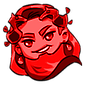
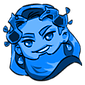
Implemented 'Sanguinary Savor'. Renamed Rupture and Splash.

diff --git a/HadesAncientsCode/Ares/RestSiteOptions/PayTributeRestSiteOption.cs b/HadesAncientsCode/Ares/RestSiteOptions/PayTributeRestSiteOption.cs
@@ -1,0 +1,93 @@
+using BaseLib.Common.Rewards;
+using HadesAncients.HadesAncientsCode.Ares.SpireFields;
+using HadesAncients.HadesAncientsCode.Shared.Abstracts;
+using HadesAncients.HadesAncientsCode.Shared.Enums;
+using HadesAncients.HadesAncientsCode.Shared.Utils;
+using MegaCrit.Sts2.Core.Commands;
+using MegaCrit.Sts2.Core.Entities.Players;
+using MegaCrit.Sts2.Core.GameActions.Multiplayer;
+using MegaCrit.Sts2.Core.Localization;
+using MegaCrit.Sts2.Core.Rewards;
+
+namespace HadesAncients.HadesAncientsCode.Ares.RestSiteOptions;
+
+public class PayTributeRestSiteOption(Player owner, PayTributeParams payTributeParams)
+    : HadesAncientsRestSiteOption(HadesAncient.Ares, owner)
+{
+    public override string OptionId => "PAY_TRIBUTE";
+
+    public override LocString Description
+    {
+        get
+        {
+            LocString description = new LocString("static_hover_tips", "HADESANCIENTS-PAY_TRIBUTE.description");
+            description.Add(PayTributeParams.MaxHpLossKey, payTributeParams.MaxHpLoss);
+            description.Add(PayTributeParams.RelicsToObtainKey, payTributeParams.RelicsToObtain);
+            description.Add(PayTributeParams.CardsToUpgradeKey, payTributeParams.CardsToUpgrade);
+            description.Add(PayTributeParams.CardsToRemoveKey, payTributeParams.CardsToRemove);
+            description.Add(PayTributeParams.PotionsToProcureKey, payTributeParams.PotionsToProcure);
+            return description;
+        }
+    }
+
+    public override async Task<bool> OnSelect()
+    {
+        await CreatureCmdUtils.LoseMaxHpSafely(new ThrowingPlayerChoiceContext(), Owner.Creature,
+            payTributeParams.MaxHpLoss, false);
+
+        await RewardsCmd.OfferCustom(Owner, GenerateRewards());
+
+        return true;
+    }
+
+    private List<Reward> GenerateRewards()
+    {
+        List<Reward> rewards = [];
+
+        for (int i = 0; i < payTributeParams.RelicsToObtain; i++)
+        {
+            RelicReward reward = new RelicReward(Owner);
+            AresSpireFields.PayTributeRewardsSetIndex.Set(reward, 0);
+            rewards.Add(reward);
+        }
+
+        CardUpgradeReward upgradeReward = new CardUpgradeReward(Owner)
+        {
+            Amount = payTributeParams.CardsToUpgrade
+        };
+
+        AresSpireFields.PayTributeRewardsSetIndex.Set(upgradeReward, 1);
+        rewards.Add(upgradeReward);
+
+        for (int i = 0; i < payTributeParams.CardsToRemove; i++)
+        {
+            CardRemovalReward reward = new CardRemovalReward(Owner);
+            AresSpireFields.PayTributeRewardsSetIndex.Set(reward, 2);
+            rewards.Add(reward);
+        }
+
+        for (int i = 0; i < payTributeParams.PotionsToProcure; i++)
+        {
+            PotionReward reward = new PotionReward(Owner);
+            AresSpireFields.PayTributeRewardsSetIndex.Set(reward, 3);
+            rewards.Add(reward);
+        }
+
+        return rewards;
+    }
+}
+
+public sealed record PayTributeParams(
+    int MaxHpLoss,
+    int RelicsToObtain,
+    int CardsToUpgrade,
+    int CardsToRemove,
+    int PotionsToProcure
+)
+{
+    public const string MaxHpLossKey = "MaxHpLoss";
+    public const string RelicsToObtainKey = "RelicsToObtain";
+    public const string CardsToUpgradeKey = "CardsToUpgrade";
+    public const string CardsToRemoveKey = "CardsToRemove";
+    public const string PotionsToProcureKey = "PotionsToProcure";
+}

diff --git a/HadesAncientsCode/Ares/Relics/SanguinarySavor.cs b/HadesAncientsCode/Ares/Relics/SanguinarySavor.cs
@@ -1,0 +1,47 @@
+using BaseLib.Utils;
+using HadesAncients.HadesAncientsCode.Ares.Enums;
+using HadesAncients.HadesAncientsCode.Ares.RestSiteOptions;
+using HadesAncients.HadesAncientsCode.Shared.Abstracts;
+using HadesAncients.HadesAncientsCode.Shared.Enums;
+using MegaCrit.Sts2.Core.Entities.Players;
+using MegaCrit.Sts2.Core.Entities.Relics;
+using MegaCrit.Sts2.Core.Entities.RestSite;
+using MegaCrit.Sts2.Core.HoverTips;
+using MegaCrit.Sts2.Core.Localization.DynamicVars;
+using MegaCrit.Sts2.Core.Models.RelicPools;
+
+namespace HadesAncients.HadesAncientsCode.Ares.Relics;
+
+[Pool(typeof(EventRelicPool))]
+public class SanguinarySavor() : HadesAncientsRelic(HadesAncient.Ares)
+{
+    public override IEnumerable<DynamicVar> CanonicalVars =>
+    [
+        new(PayTributeParams.MaxHpLossKey, 5),
+        new(PayTributeParams.RelicsToObtainKey, 1),
+        new(PayTributeParams.CardsToUpgradeKey, 1),
+        new(PayTributeParams.CardsToRemoveKey, 1),
+        new(PayTributeParams.PotionsToProcureKey, 1)
+    ];
+
+    public override IEnumerable<IHoverTip> ExtraHoverTips =>
+    [
+        HoverTipFactory.Static(AresStaticHoverTips.PayTribute, CanonicalVars.ToArray())
+    ];
+
+    public override RelicRarity Rarity => RelicRarity.Ancient;
+
+    public override bool TryModifyRestSiteOptions(Player player, ICollection<RestSiteOption> options)
+    {
+        if (player != Owner)
+            return false;
+        options.Add(new PayTributeRestSiteOption(player, new PayTributeParams(
+            MaxHpLoss: DynamicVars[PayTributeParams.MaxHpLossKey].IntValue,
+            RelicsToObtain: DynamicVars[PayTributeParams.RelicsToObtainKey].IntValue,
+            CardsToUpgrade: DynamicVars[PayTributeParams.CardsToUpgradeKey].IntValue,
+            CardsToRemove: DynamicVars[PayTributeParams.CardsToRemoveKey].IntValue,
+            PotionsToProcure: DynamicVars[PayTributeParams.PotionsToProcureKey].IntValue
+        )));
+        return true;
+    }
+}

diff --git a/HadesAncientsCode/Ares/Patches/PayTribute_RelicRewardRewardsSetIndex_Patch.cs b/HadesAncientsCode/Ares/Patches/PayTribute_RelicRewardRewardsSetIndex_Patch.cs
@@ -1,0 +1,43 @@
+using System.Reflection;
+using BaseLib.Common.Rewards;
+using HadesAncients.HadesAncientsCode.Ares.SpireFields;
+using HarmonyLib;
+using MegaCrit.Sts2.Core.Rewards;
+
+namespace HadesAncients.HadesAncientsCode.Ares.Patches;
+
+[HarmonyPatch]
+public static class PayTribute_RelicRewardRewardsSetIndex_Patch
+{
+    private static IEnumerable<MethodBase> TargetMethods()
+    {
+        yield return AccessTools.PropertyGetter(
+            typeof(RelicReward),
+            nameof(Reward.RewardsSetIndex)
+        );
+
+        yield return AccessTools.PropertyGetter(
+            typeof(CardUpgradeReward),
+            nameof(Reward.RewardsSetIndex)
+        );
+
+        yield return AccessTools.PropertyGetter(
+            typeof(CardRemovalReward),
+            nameof(Reward.RewardsSetIndex)
+        );
+
+        yield return AccessTools.PropertyGetter(
+            typeof(PotionReward),
+            nameof(Reward.RewardsSetIndex)
+        );
+    }
+
+    [HarmonyPostfix]
+    private static void Postfix(Reward __instance, ref int __result)
+    {
+        int? index = AresSpireFields.PayTributeRewardsSetIndex.Get(__instance);
+
+        if (index.HasValue)
+            __result = index.Value;
+    }
+}

diff --git a/HadesAncientsCode/Shared/Utils/CmdUtils.cs b/HadesAncientsCode/Shared/Utils/CmdUtils.cs
@@ -1,0 +1,31 @@
+using MegaCrit.Sts2.Core.Commands;
+using MegaCrit.Sts2.Core.Entities.Creatures;
+using MegaCrit.Sts2.Core.GameActions.Multiplayer;
+
+namespace HadesAncients.HadesAncientsCode.Shared.Utils;
+
+public static class CreatureCmdUtils
+{
+    public static async Task LoseMaxHpSafely(
+        PlayerChoiceContext context,
+        Creature creature,
+        int requestedMaxHpLoss,
+        bool isFromCard)
+    {
+        var safeMaxHpLoss = Math.Clamp(
+            requestedMaxHpLoss,
+            0,
+            Math.Max(0, creature.MaxHp - 1)
+        );
+
+        if (safeMaxHpLoss <= 0)
+            return;
+
+        await CreatureCmd.LoseMaxHp(
+            context,
+            creature,
+            safeMaxHpLoss,
+            isFromCard
+        );
+    }
+}

diff --git a/HadesAncientsCode/Shared/Abstracts/HadesAncientsRestSiteOption.cs b/HadesAncientsCode/Shared/Abstracts/HadesAncientsRestSiteOption.cs
@@ -1,0 +1,11 @@
+using BaseLib.Abstracts;
+using HadesAncients.HadesAncientsCode.Shared.Enums;
+using HadesAncients.HadesAncientsCode.Shared.Extensions;
+using MegaCrit.Sts2.Core.Entities.Players;
+
+namespace HadesAncients.HadesAncientsCode.Shared.Abstracts;
+
+public abstract class HadesAncientsRestSiteOption(HadesAncient hadesAncient, Player owner) : CustomRestSiteOption(owner)
+{
+    public override string CustomIconPath => $"{OptionId.ToLowerInvariant()}.png".RestSiteOptionImagePath(hadesAncient);
+}

diff --git a/HadesAncientsCode/Shared/Extensions/StringExtensions.cs b/HadesAncientsCode/Shared/Extensions/StringExtensions.cs
@@ -101,4 +101,9 @@ public static class StringExtensions
     {
         return Path.Join(HadesAncientsMainFile.ResPath, hadesAncient.ToString(), "images", "enchantments", path);
     }
+
+    public static string RestSiteOptionImagePath(this string path, HadesAncient hadesAncient)
+    {
+        return Path.Join(HadesAncientsMainFile.ResPath, hadesAncient.ToString(), "images", "rest_site_options", path);
+    }
 }

diff --git a/HadesAncientsCode/Poseidon/Powers/RupturePower.cs b/HadesAncientsCode/Poseidon/Powers/RupturePower.cs
@@ -13,7 +13,7 @@ namespace HadesAncients.HadesAncientsCode.Poseidon.Powers;
 
 public class RupturePower() : HadesAncientsPower(HadesAncient.Poseidon)
 {
-    private static readonly Color Color = new(110 / 255f, 0, 0);
+    private static readonly Color Color = new(7 / 255f, 132 / 255f, 255 / 255f);
 
     public override PowerType Type => PowerType.Debuff;
 

diff --git a/HadesAncientsCode/Ares/SpireFields/AresSpireFields.cs b/HadesAncientsCode/Ares/SpireFields/AresSpireFields.cs
@@ -1,0 +1,9 @@
+using BaseLib.Utils;
+using MegaCrit.Sts2.Core.Rewards;
+
+namespace HadesAncients.HadesAncientsCode.Ares.SpireFields;
+
+public class AresSpireFields
+{
+    public static readonly SpireField<Reward, int?> PayTributeRewardsSetIndex = new(() => null);
+}

diff --git a/HadesAncientsCode/Ares/Enums/AthenaStaticHoverTips.cs b/HadesAncientsCode/Ares/Enums/AthenaStaticHoverTips.cs
@@ -1,0 +1,9 @@
+using BaseLib.Patches.Content;
+using MegaCrit.Sts2.Core.HoverTips;
+
+namespace HadesAncients.HadesAncientsCode.Ares.Enums;
+
+public class AresStaticHoverTips
+{
+    [CustomEnum] public static StaticHoverTip PayTribute;
+}

diff --git a/README.md b/README.md
@@ -8,7 +8,7 @@ This mod introduces a collection of new Ancients from the hit game Hades 2. Curr
 |-------|---|----------------------------------------------------------------------------------------------|
 | Act 1 | Hecate | 25 Relics with various effects, based on Arcana Cards.                                       |
 | Act 2 | Athena | Granting different types of Defense, preventing death, and a little bit of Offense.          |
-| Act 2 | Poseidon | Awarding playing many Attacks, applying Froth/Rupture, gaining Energy, getting more rewards. |
+| Act 2 | Poseidon | Awarding playing many Attacks, applying Froth/Riptide, gaining Energy, getting more rewards. |
 | Act 2 | Zeus | Blitz, gaining Energy, buffing Attacks, dealing AOE damage.                                  |
 | Act 3 | Aphrodite | Weak, Charm, debuffs, healing, dealing more Attack damage.                                   |
 | Act 3 | Dionysus | Hangover, potions, max HP, healing, unpredictable combat effects.                            |
